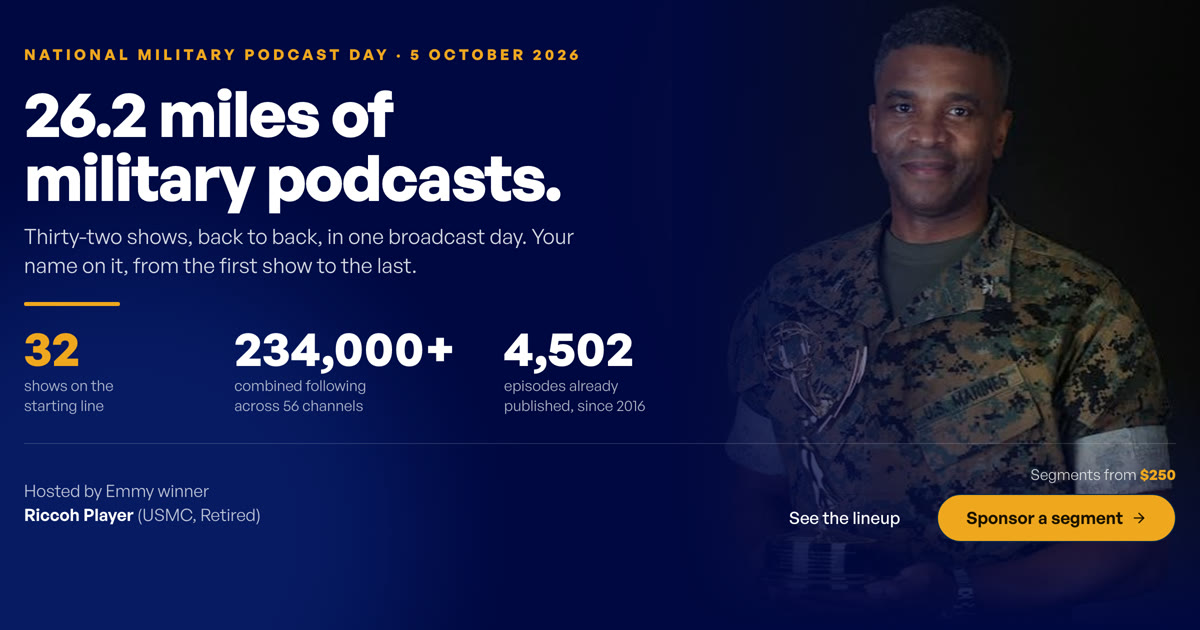
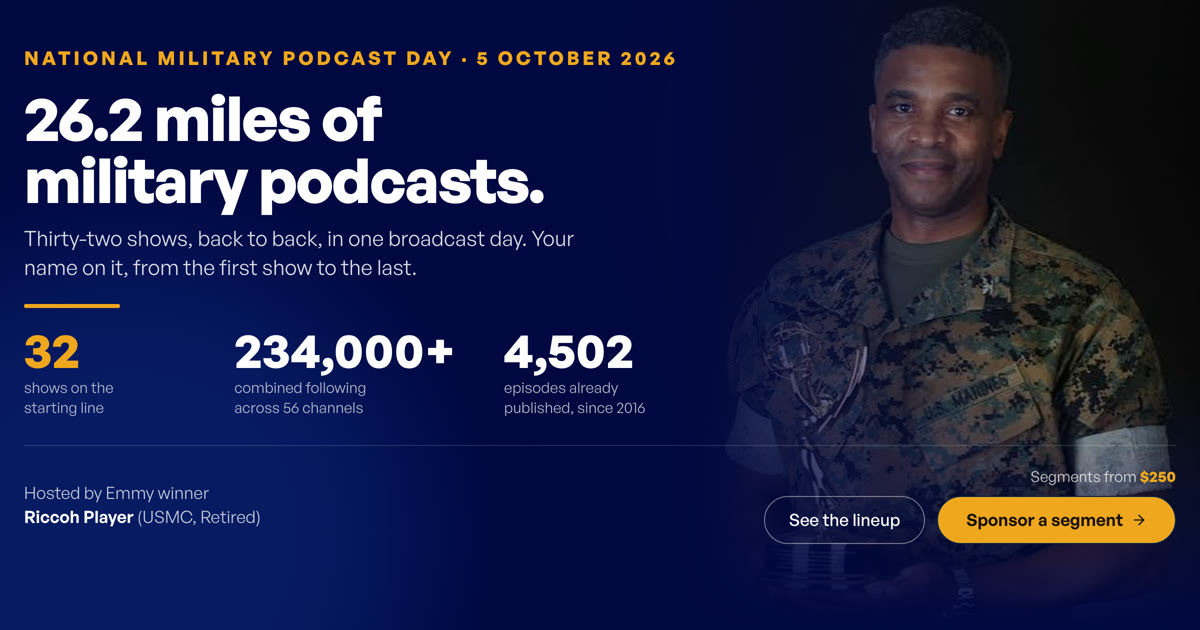
Pitch share image: redrawn with the bigger date line (v2, so previews refetch it)

diff --git a/middleware.ts b/middleware.ts
@@ -17,7 +17,7 @@ const SHARE: Record<string, { title: string; description: string; image: string;
   "/podcast-one-pitch": {
     title: "26.2 miles of military podcasts — National Military Podcast Day, October 5",
     description: "Thirty-two military and veteran shows, back to back, in one broadcast day, hosted by Emmy winner Riccoh Player (USMC, Retired). Segments from $250.",
-    image: `${ORIGIN}/og-podcast-one-pitch.jpg?v=1`,
+    image: `${ORIGIN}/og-podcast-one-pitch.jpg?v=2`,
     alt: "26.2 miles of military podcasts: 32 shows, 234,000+ combined following, hosted by Riccoh Player",
   },
 };
